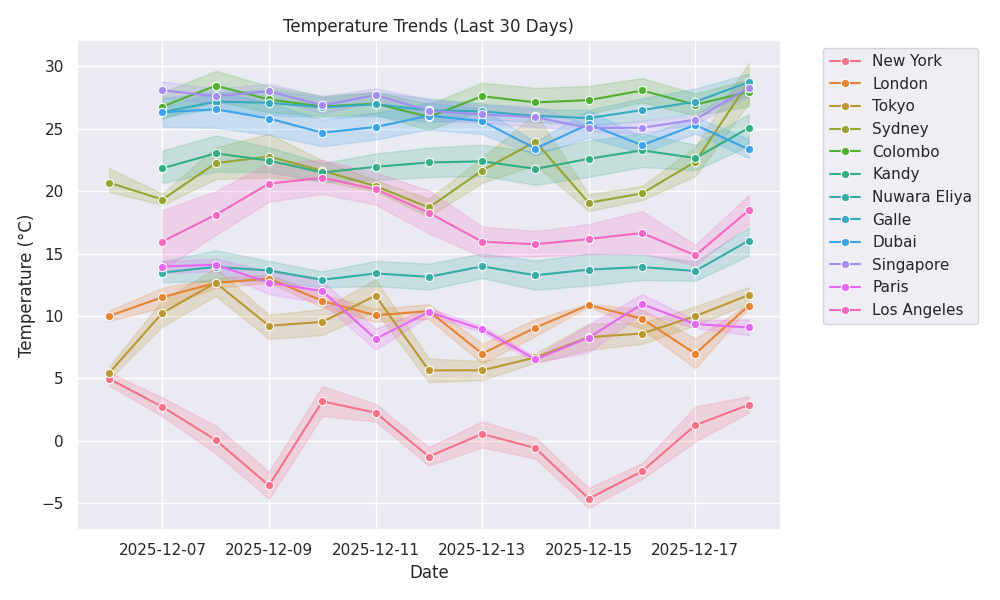
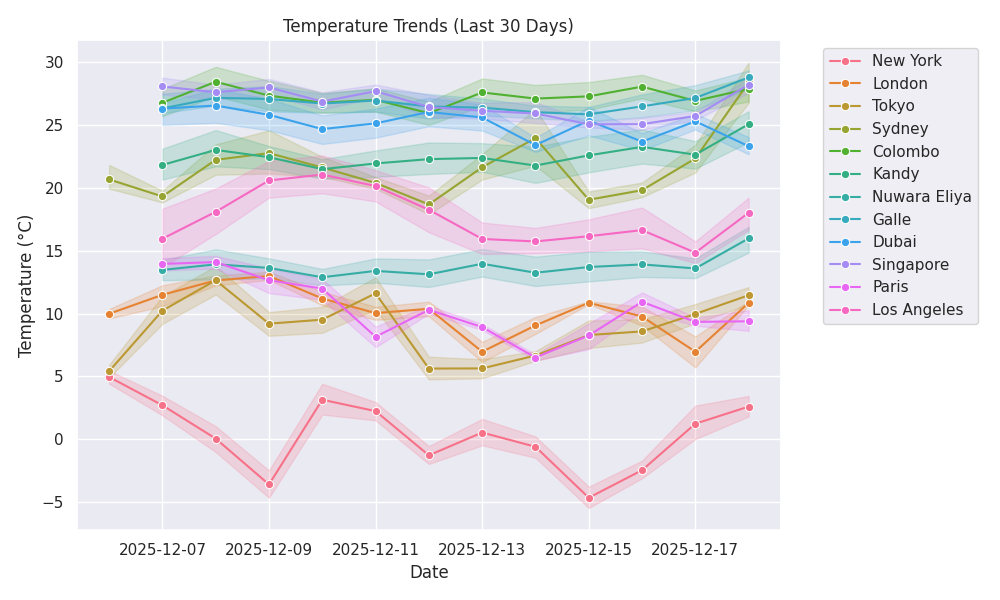
🌦 Weather update: 2025-12-18 11:13

diff --git a/public/index.html b/public/index.html
@@ -11,7 +11,7 @@
     <div class="max-w-6xl mx-auto">
         <header class="mb-8 text-center">
             <h1 class="text-4xl font-bold mb-2">🌍 Global Weather Dashboard</h1>
-            <p class="text-slate-400">Last Updated: 2025-12-18 10:15:09</p>
+            <p class="text-slate-400">Last Updated: 2025-12-18 11:12:59</p>
         </header>
         
         <!-- AI Summary -->
@@ -29,42 +29,42 @@
                     <span class="text-3xl">☁</span>
                 </div>
                 <div class="mt-4">
-                    <p class="text-4xl font-bold">11.13°C</p>
-                    <p class="text-slate-400 capitalize">overcast clouds</p>
+                    <p class="text-4xl font-bold">12.58°C</p>
+                    <p class="text-slate-400 capitalize">broken clouds</p>
                 </div>
                 <div class="mt-4 text-sm text-slate-500">
-                    <p>💧 Humidity: 80%</p>
-                    <p>💨 Wind: 7.2 m/s</p>
+                    <p>💧 Humidity: 75%</p>
+                    <p>💨 Wind: 6.69 m/s</p>
                 </div>
             </div>
             
             <div class="bg-slate-800 p-6 rounded-xl shadow-lg border-t-4 border-blue-500 hover:scale-105 transition-transform">
                 <div class="flex justify-between items-start">
                     <h3 class="text-xl font-bold">London</h3>
-                    <span class="text-3xl">☁</span>
+                    <span class="text-3xl">🌧</span>
                 </div>
                 <div class="mt-4">
-                    <p class="text-4xl font-bold">11.08°C</p>
-                    <p class="text-slate-400 capitalize">overcast clouds</p>
+                    <p class="text-4xl font-bold">11.2°C</p>
+                    <p class="text-slate-400 capitalize">light rain</p>
                 </div>
                 <div class="mt-4 text-sm text-slate-500">
                     <p>💧 Humidity: 94%</p>
-                    <p>💨 Wind: 3.09 m/s</p>
+                    <p>💨 Wind: 4.92 m/s</p>
                 </div>
             </div>
             
             <div class="bg-slate-800 p-6 rounded-xl shadow-lg border-t-4 border-blue-500 hover:scale-105 transition-transform">
                 <div class="flex justify-between items-start">
                     <h3 class="text-xl font-bold">Sydney</h3>
-                    <span class="text-3xl">🌧</span>
+                    <span class="text-3xl">☁</span>
                 </div>
                 <div class="mt-4">
-                    <p class="text-4xl font-bold">24.31°C</p>
-                    <p class="text-slate-400 capitalize">light rain</p>
+                    <p class="text-4xl font-bold">24.9°C</p>
+                    <p class="text-slate-400 capitalize">few clouds</p>
                 </div>
                 <div class="mt-4 text-sm text-slate-500">
-                    <p>💧 Humidity: 69%</p>
-                    <p>💨 Wind: 1.34 m/s</p>
+                    <p>💧 Humidity: 67%</p>
+                    <p>💨 Wind: 0.89 m/s</p>
                 </div>
             </div>
             
@@ -74,12 +74,12 @@
                     <span class="text-3xl">☁</span>
                 </div>
                 <div class="mt-4">
-                    <p class="text-4xl font-bold">28.35°C</p>
+                    <p class="text-4xl font-bold">27.42°C</p>
                     <p class="text-slate-400 capitalize">broken clouds</p>
                 </div>
                 <div class="mt-4 text-sm text-slate-500">
-                    <p>💧 Humidity: 76%</p>
-                    <p>💨 Wind: 6.17 m/s</p>
+                    <p>💧 Humidity: 78%</p>
+                    <p>💨 Wind: 4.63 m/s</p>
                 </div>
             </div>
             
@@ -93,8 +93,8 @@
                     <p class="text-slate-400 capitalize">light rain</p>
                 </div>
                 <div class="mt-4 text-sm text-slate-500">
-                    <p>💧 Humidity: 83%</p>
-                    <p>💨 Wind: 5.14 m/s</p>
+                    <p>💧 Humidity: 88%</p>
+                    <p>💨 Wind: 6.17 m/s</p>
                 </div>
             </div>
             
@@ -108,8 +108,8 @@
                     <p class="text-slate-400 capitalize">overcast clouds</p>
                 </div>
                 <div class="mt-4 text-sm text-slate-500">
-                    <p>💧 Humidity: 76%</p>
-                    <p>💨 Wind: 3.72 m/s</p>
+                    <p>💧 Humidity: 79%</p>
+                    <p>💨 Wind: 3.99 m/s</p>
                 </div>
             </div>
             
@@ -119,27 +119,27 @@
                     <span class="text-3xl">☁</span>
                 </div>
                 <div class="mt-4">
-                    <p class="text-4xl font-bold">16.57°C</p>
+                    <p class="text-4xl font-bold">15.54°C</p>
                     <p class="text-slate-400 capitalize">overcast clouds</p>
                 </div>
                 <div class="mt-4 text-sm text-slate-500">
-                    <p>💧 Humidity: 77%</p>
-                    <p>💨 Wind: 2.53 m/s</p>
+                    <p>💧 Humidity: 83%</p>
+                    <p>💨 Wind: 2.4 m/s</p>
                 </div>
             </div>
             
             <div class="bg-slate-800 p-6 rounded-xl shadow-lg border-t-4 border-blue-500 hover:scale-105 transition-transform">
                 <div class="flex justify-between items-start">
                     <h3 class="text-xl font-bold">Kandy</h3>
-                    <span class="text-3xl">☁</span>
+                    <span class="text-3xl">🌧</span>
                 </div>
                 <div class="mt-4">
-                    <p class="text-4xl font-bold">26.37°C</p>
-                    <p class="text-slate-400 capitalize">broken clouds</p>
+                    <p class="text-4xl font-bold">25.25°C</p>
+                    <p class="text-slate-400 capitalize">light rain</p>
                 </div>
                 <div class="mt-4 text-sm text-slate-500">
-                    <p>💧 Humidity: 67%</p>
-                    <p>💨 Wind: 3.45 m/s</p>
+                    <p>💧 Humidity: 74%</p>
+                    <p>💨 Wind: 2.83 m/s</p>
                 </div>
             </div>
             
@@ -149,12 +149,12 @@
                     <span class="text-3xl">☁</span>
                 </div>
                 <div class="mt-4">
-                    <p class="text-4xl font-bold">29.46°C</p>
+                    <p class="text-4xl font-bold">27.24°C</p>
                     <p class="text-slate-400 capitalize">overcast clouds</p>
                 </div>
                 <div class="mt-4 text-sm text-slate-500">
-                    <p>💧 Humidity: 75%</p>
-                    <p>💨 Wind: 4.38 m/s</p>
+                    <p>💧 Humidity: 84%</p>
+                    <p>💨 Wind: 4.25 m/s</p>
                 </div>
             </div>
             
@@ -164,12 +164,12 @@
                     <span class="text-3xl">☁</span>
                 </div>
                 <div class="mt-4">
-                    <p class="text-4xl font-bold">1.14°C</p>
+                    <p class="text-4xl font-bold">-0.01°C</p>
                     <p class="text-slate-400 capitalize">broken clouds</p>
                 </div>
                 <div class="mt-4 text-sm text-slate-500">
-                    <p>💧 Humidity: 79%</p>
-                    <p>💨 Wind: 3.09 m/s</p>
+                    <p>💧 Humidity: 81%</p>
+                    <p>💨 Wind: 2.06 m/s</p>
                 </div>
             </div>
             
@@ -179,12 +179,12 @@
                     <span class="text-3xl">☁</span>
                 </div>
                 <div class="mt-4">
-                    <p class="text-4xl font-bold">9.89°C</p>
+                    <p class="text-4xl font-bold">9.42°C</p>
                     <p class="text-slate-400 capitalize">broken clouds</p>
                 </div>
                 <div class="mt-4 text-sm text-slate-500">
-                    <p>💧 Humidity: 45%</p>
-                    <p>💨 Wind: 4.7 m/s</p>
+                    <p>💧 Humidity: 49%</p>
+                    <p>💨 Wind: 4.72 m/s</p>
                 </div>
             </div>
             
@@ -194,12 +194,12 @@
                     <span class="text-3xl">🌫</span>
                 </div>
                 <div class="mt-4">
-                    <p class="text-4xl font-bold">15.34°C</p>
+                    <p class="text-4xl font-bold">13.8°C</p>
                     <p class="text-slate-400 capitalize">mist</p>
                 </div>
                 <div class="mt-4 text-sm text-slate-500">
-                    <p>💧 Humidity: 83%</p>
-                    <p>💨 Wind: 0.0 m/s</p>
+                    <p>💧 Humidity: 87%</p>
+                    <p>💨 Wind: 2.06 m/s</p>
                 </div>
             </div>
             

diff --git a/README.md b/README.md
@@ -8,8 +8,8 @@
 
 ---
 
-## ⚡ Live Status (Updated: 2025-12-18 10:15 UTC)
-![Paris](https://img.shields.io/badge/Paris-11.13°C-blue) ![London](https://img.shields.io/badge/London-11.08°C-blue) ![Sydney](https://img.shields.io/badge/Sydney-24.31°C-green) ![Singapore](https://img.shields.io/badge/Singapore-28.35°C-orange) ![Dubai](https://img.shields.io/badge/Dubai-22.96°C-green) ![Galle](https://img.shields.io/badge/Galle-29.4°C-orange) ![Nuwara Eliya](https://img.shields.io/badge/Nuwara%20Eliya-16.57°C-green) ![Kandy](https://img.shields.io/badge/Kandy-26.37°C-orange) ![Colombo](https://img.shields.io/badge/Colombo-29.46°C-orange) ![New York](https://img.shields.io/badge/New%20York-1.14°C-blue) ![Tokyo](https://img.shields.io/badge/Tokyo-9.89°C-blue) ![Los Angeles](https://img.shields.io/badge/Los%20Angeles-15.34°C-green) 
+## ⚡ Live Status (Updated: 2025-12-18 11:13 UTC)
+![Paris](https://img.shields.io/badge/Paris-12.58°C-blue) ![London](https://img.shields.io/badge/London-11.2°C-blue) ![Sydney](https://img.shields.io/badge/Sydney-24.9°C-green) ![Singapore](https://img.shields.io/badge/Singapore-27.42°C-orange) ![Dubai](https://img.shields.io/badge/Dubai-22.96°C-green) ![Galle](https://img.shields.io/badge/Galle-29.4°C-orange) ![Nuwara Eliya](https://img.shields.io/badge/Nuwara%20Eliya-15.54°C-green) ![Kandy](https://img.shields.io/badge/Kandy-25.25°C-orange) ![Colombo](https://img.shields.io/badge/Colombo-27.24°C-orange) ![New York](https://img.shields.io/badge/New%20York--0.01°C-blue) ![Tokyo](https://img.shields.io/badge/Tokyo-9.42°C-blue) ![Los Angeles](https://img.shields.io/badge/Los%20Angeles-13.8°C-blue) 
 
 <div align="center">
   <h3>🏆 Weather Records (Live)</h3>
@@ -19,8 +19,8 @@
         <td align="center">❄ <b>Coldest City</b></td>
     </tr>
     <tr>
-        <td align="center"><b>Colombo</b><br>29.46°C</td>
-        <td align="center"><b>New York</b><br>1.14°C</td>
+        <td align="center"><b>Galle</b><br>29.4°C</td>
+        <td align="center"><b>New York</b><br>-0.01°C</td>
     </tr>
   </table>
 </div>
@@ -28,18 +28,18 @@
 ## 📊 Global Overview
 | 🌍 City | 🌡 Temp | 🌤 Condition | 💧 Humidity | 🌬 Wind |
 |---|---|---|---|---|
-| **Paris** | 11.13°C | overcast clouds | 🟦🟦🟦🟦⬜ 80% | 7.2 m/s |
-| **London** | 11.08°C | overcast clouds | 🟦🟦🟦🟦⬜ 94% | 3.09 m/s |
-| **Sydney** | 24.31°C | light rain | 🟦🟦🟦⬜⬜ 69% | 1.34 m/s |
-| **Singapore** | 28.35°C | broken clouds | 🟦🟦🟦⬜⬜ 76% | 6.17 m/s |
-| **Dubai** | 22.96°C | light rain | 🟦🟦🟦🟦⬜ 83% | 5.14 m/s |
-| **Galle** | 29.4°C | overcast clouds | 🟦🟦🟦⬜⬜ 76% | 3.72 m/s |
-| **Nuwara Eliya** | 16.57°C | overcast clouds | 🟦🟦🟦⬜⬜ 77% | 2.53 m/s |
-| **Kandy** | 26.37°C | broken clouds | 🟦🟦🟦⬜⬜ 67% | 3.45 m/s |
-| **Colombo** | 29.46°C | overcast clouds | 🟦🟦🟦⬜⬜ 75% | 4.38 m/s |
-| **New York** | 1.14°C | broken clouds | 🟦🟦🟦⬜⬜ 79% | 3.09 m/s |
-| **Tokyo** | 9.89°C | broken clouds | 🟦🟦⬜⬜⬜ 45% | 4.7 m/s |
-| **Los Angeles** | 15.34°C | mist | 🟦🟦🟦🟦⬜ 83% | 0.0 m/s |
+| **Paris** | 12.58°C | broken clouds | 🟦🟦🟦⬜⬜ 75% | 6.69 m/s |
+| **London** | 11.2°C | light rain | 🟦🟦🟦🟦⬜ 94% | 4.92 m/s |
+| **Sydney** | 24.9°C | few clouds | 🟦🟦🟦⬜⬜ 67% | 0.89 m/s |
+| **Singapore** | 27.42°C | broken clouds | 🟦🟦🟦⬜⬜ 78% | 4.63 m/s |
+| **Dubai** | 22.96°C | light rain | 🟦🟦🟦🟦⬜ 88% | 6.17 m/s |
+| **Galle** | 29.4°C | overcast clouds | 🟦🟦🟦⬜⬜ 79% | 3.99 m/s |
+| **Nuwara Eliya** | 15.54°C | overcast clouds | 🟦🟦🟦🟦⬜ 83% | 2.4 m/s |
+| **Kandy** | 25.25°C | light rain | 🟦🟦🟦⬜⬜ 74% | 2.83 m/s |
+| **Colombo** | 27.24°C | overcast clouds | 🟦🟦🟦🟦⬜ 84% | 4.25 m/s |
+| **New York** | -0.01°C | broken clouds | 🟦🟦🟦🟦⬜ 81% | 2.06 m/s |
+| **Tokyo** | 9.42°C | broken clouds | 🟦🟦⬜⬜⬜ 49% | 4.72 m/s |
+| **Los Angeles** | 13.8°C | mist | 🟦🟦🟦🟦⬜ 87% | 2.06 m/s |
 
 
 ## 📈 Temperature Trends
